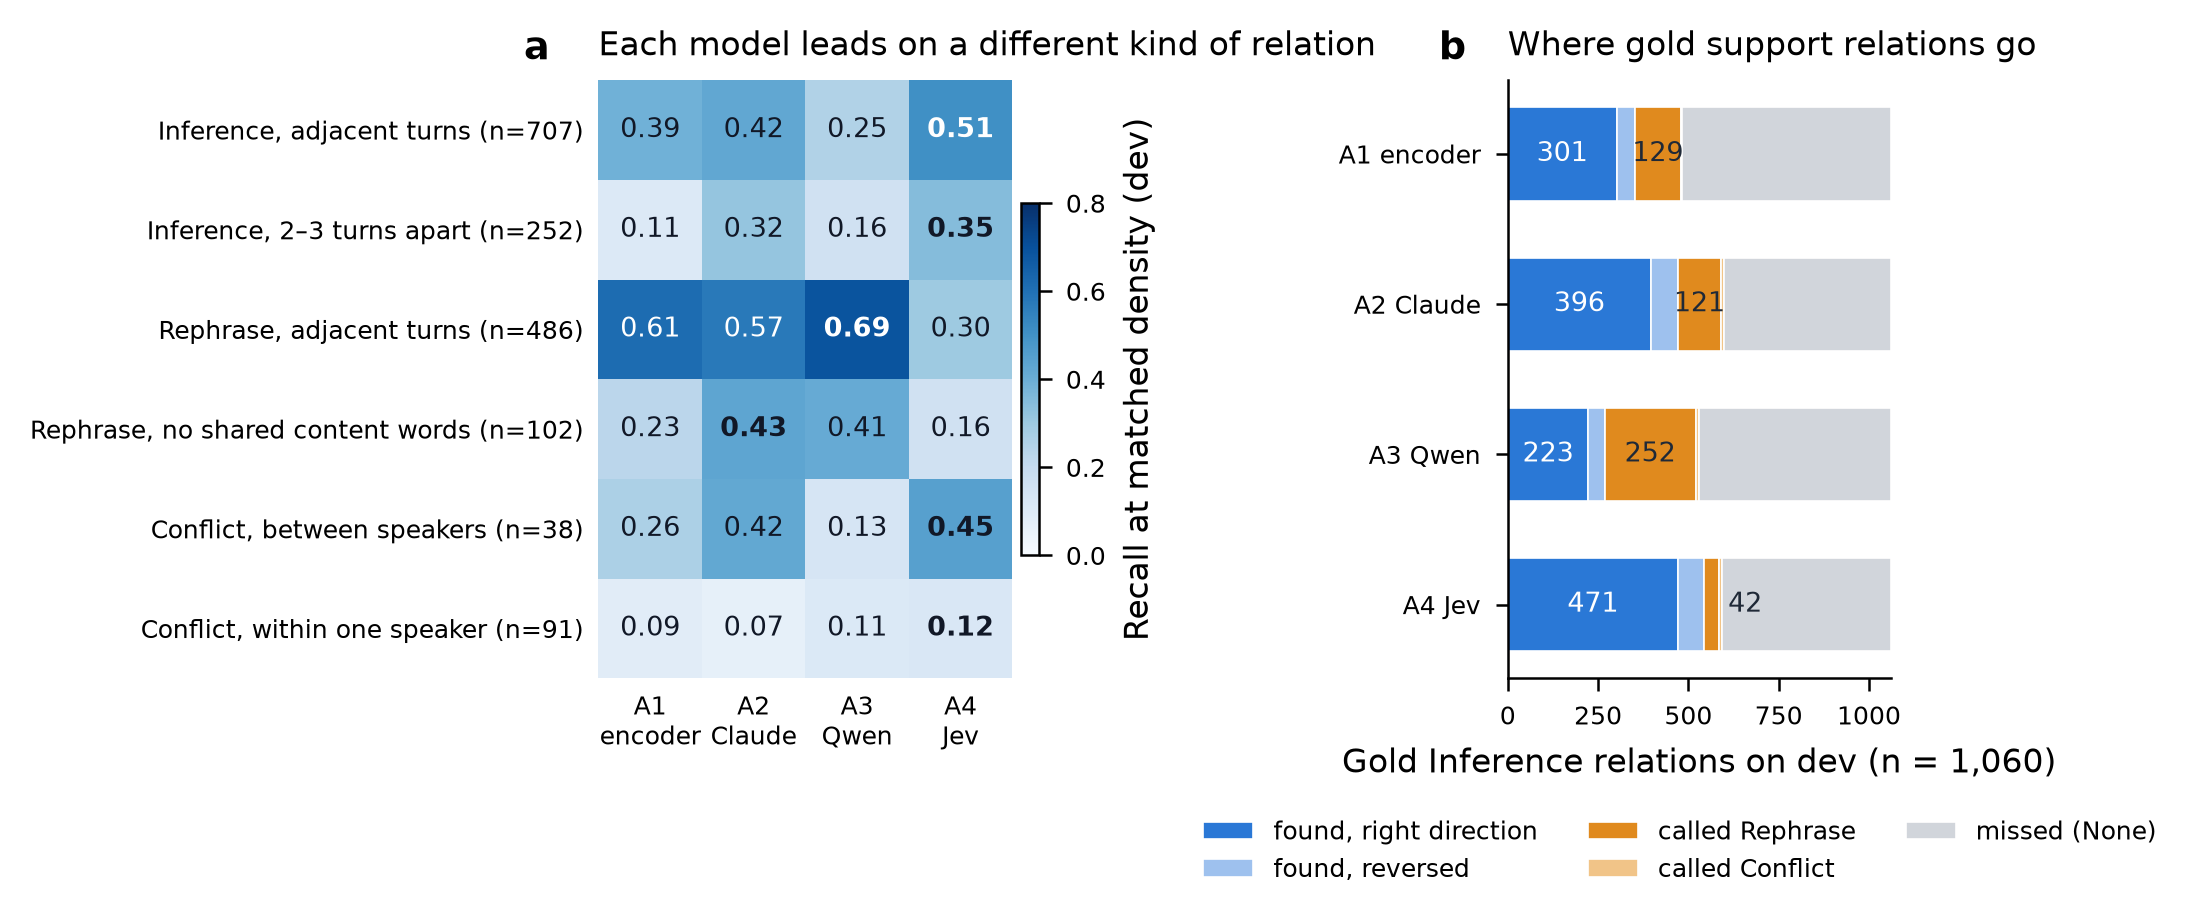
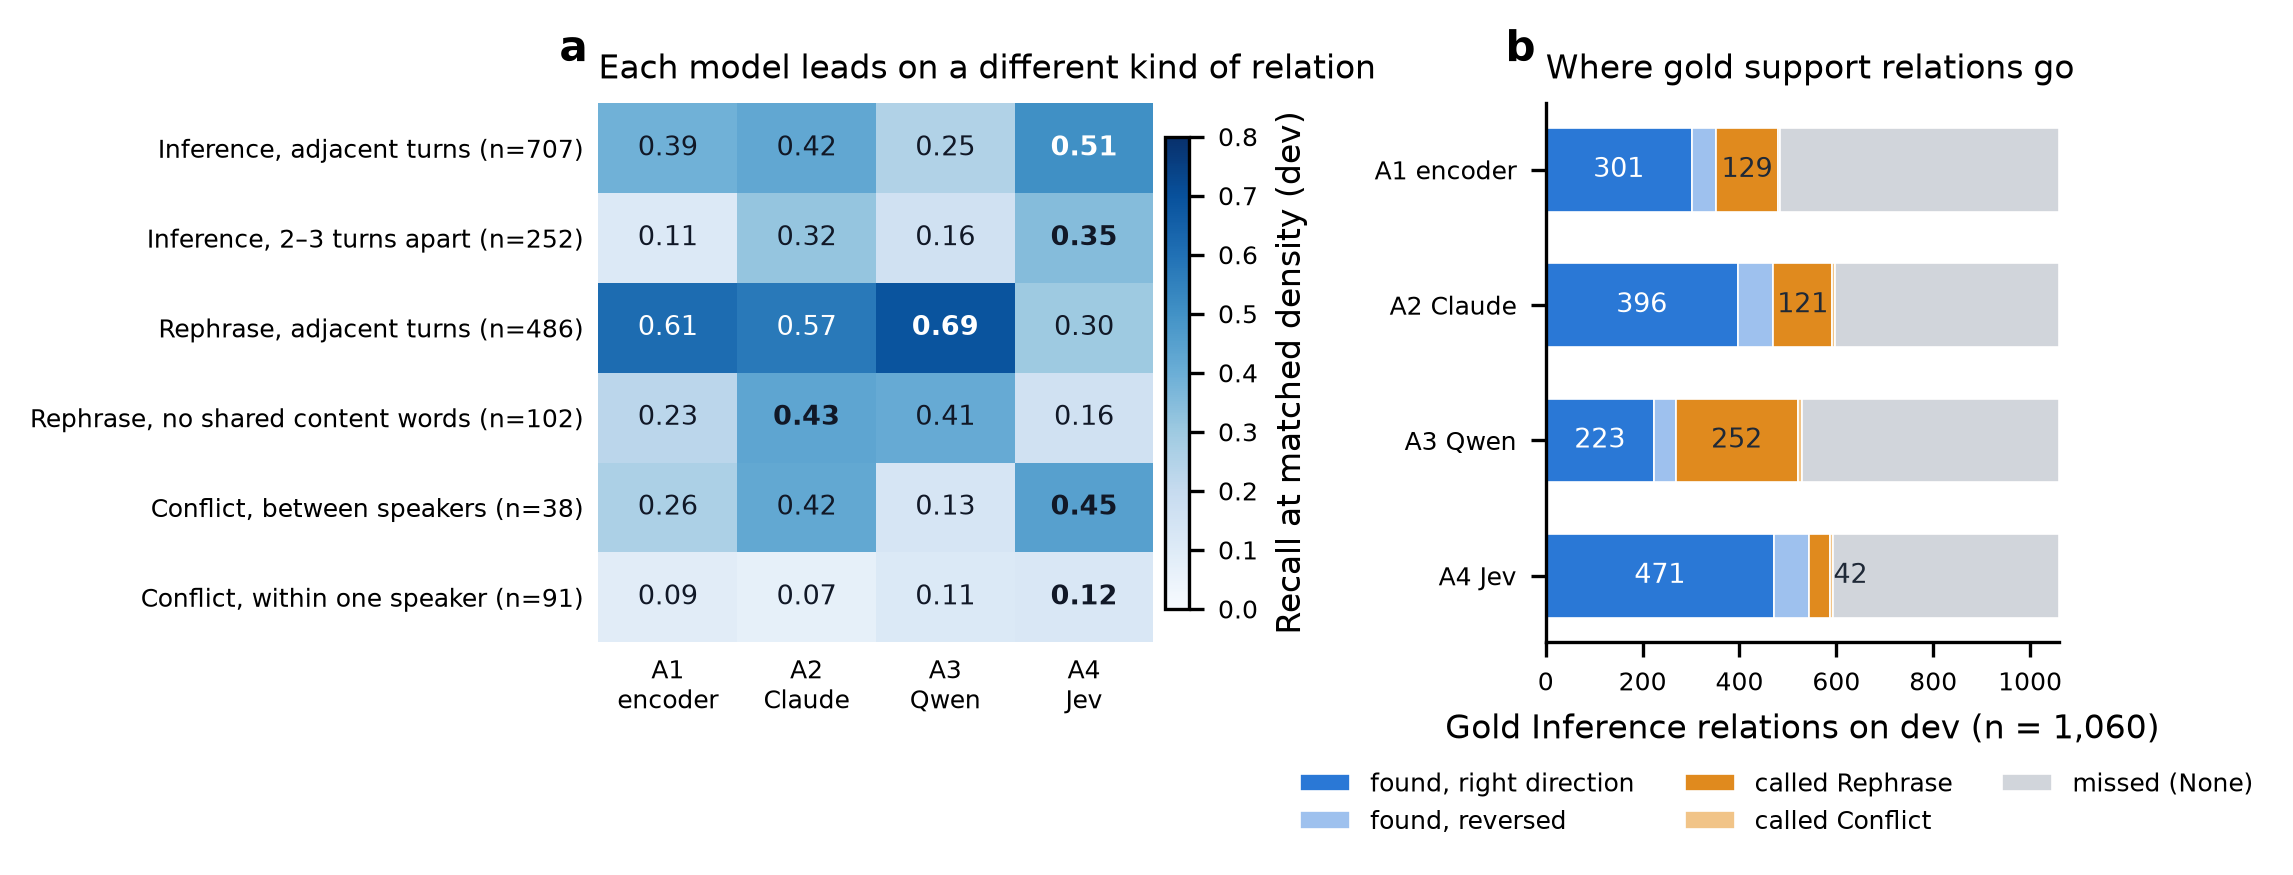
Short report: figures redrawn by a script from committed files (D087)
- reports/short_report_figures.py: numpy + matplotlib only; reads results/ and results/short_report/derived.json, plus quoted constants with sources.
- reports/figures/short-*.png regenerated by the script.
- D087 and the report header say how to reproduce.

diff --git a/reports/short_report_figures.py b/reports/short_report_figures.py
@@ -1,0 +1,271 @@
+"""Redraw the four figures of reports/06-short-report.md from committed files.
+
+    python reports/short_report_figures.py      # from the repo root; writes reports/figures/short-*.png
+
+Needs numpy and matplotlib only (matplotlib is not in the pinned ML venv; any Python with both works).
+Reads committed results under results/ and, for the bootstrap intervals and pooled counts, the output of
+reports/short_report_numbers.py (results/short_report/derived.json; run that first if it is missing).
+data/evaluation/ is not read. The few values that are not in results/ are quoted constants, each with its source.
+"""
+import json
+from pathlib import Path
+
+import matplotlib
+matplotlib.use("Agg")
+import matplotlib.pyplot as plt
+import numpy as np
+from matplotlib.patches import Patch
+
+ROOT = Path(__file__).resolve().parents[1]
+RES = ROOT / "results"
+OUT = ROOT / "reports" / "figures"
+MAPS = [f"map{i}" for i in range(1, 12)]
+
+# ---- quoted constants (not in results/) ---------------------------------------------------------------
+# 2024 shared-task results on the 11 test maps: overview paper (reference/2024.argmining-1.8.pdf), Tables 1-3.
+DFKI = {"ari": (55.33, 30.40), "ilo": (78.78, 66.10), "global": (67.05, 48.25)}
+FIELD_2024 = [("DFKI (2024 1st)", 55.33, 30.40), ("Pungene", 46.22, 20.51), ("KnowComp", 32.75, 9.06),
+              ("Pokemon", 30.64, 35.89), ("Turiya", 30.75, 6.65), ("RoBERTa baseline", 26.46, 22.80),
+              ("Predict nothing", 29.52, 0.0)]
+# Dev references (A1 report section 5, D044): no relations predicted; every candidate pair labelled right.
+DEV_MAJORITY, DEV_CEILING = 30.93, 98.64
+# Time per map, seconds (final report section 7.3; A3 is a 22-40 s range, plotted at its midpoint).
+TIME = {"A1": 0.94, "A2": 25.0, "A3": 31.0, "A4": 0.8, "A1+A2+A4": 26.7}
+A3_TIME_RANGE = (22.0, 40.0)
+
+COL = {"A1": "#6b7280", "A2": "#2a78d6", "A3": "#b45309", "A4": "#7c3aed", "A1+A2+A4": "#111827"}
+C_ILO, C_ARI = "#2a78d6", "#e08a1e"
+
+
+def load(rel):
+    with open(RES / rel, encoding="utf-8") as f:
+        return json.load(f)
+
+
+def style():
+    plt.rcParams.update({
+        "font.size": 7, "axes.titlesize": 8, "axes.labelsize": 8, "xtick.labelsize": 6, "ytick.labelsize": 6,
+        "legend.fontsize": 6.5, "axes.spines.top": False, "axes.spines.right": False, "axes.linewidth": 0.8,
+        "savefig.dpi": 300, "savefig.bbox": "tight", "font.family": "DejaVu Sans",
+    })
+
+
+def letter(ax, s):
+    ax.text(-0.02, 1.06, s, transform=ax.transAxes, fontsize=10, fontweight="bold", ha="right", va="bottom")
+
+
+def systems():
+    a3 = load("a3/test_global.json")["votes"]
+    comb = load("combination/test_global.json")["A1+A2+A4"]
+    return {"A1": load("a1/v1/test_global.json"), "A2": load("a2/test_global.json"), "A3": a3,
+            "A4": load("a4/test_global.json"), "A1+A2+A4": comb}
+
+
+def fig_gain(S):
+    names = {"A1": "A1 · encoder", "A2": "A2 · Claude", "A3": "A3 · fine-tuned Qwen", "A4": "A4 · Jev",
+             "A1+A2+A4": "A1+A2+A4 (pre-registered)"}
+    keys = list(names)[::-1]
+    y = np.arange(len(keys))
+    fig, axs = plt.subplots(1, 2, figsize=(7.2, 3.1), sharey=True)
+    for ax, (si, s) in zip(axs, enumerate(("general", "focused"))):
+        d_ilo = np.array([(S[k]["ilo"][s][2] - DFKI["ilo"][si]) / 2 for k in keys])
+        d_ari = np.array([(S[k]["ari"][s][2] - DFKI["ari"][si]) / 2 for k in keys])
+        d_glob = [S[k]["global"][s][2] - DFKI["global"][si] for k in keys]
+        ax.barh(y, d_ilo, color=C_ILO, height=0.6)
+        ax.barh(y, d_ari.clip(min=0), left=d_ilo, color=C_ARI, height=0.6)
+        ax.barh(y, d_ari.clip(max=0), color=C_ARI, alpha=0.55, height=0.6)
+        for yi, di, da, dg in zip(y, d_ilo, d_ari, d_glob):
+            ax.text(di + max(da, 0) + 0.3, yi, f"+{dg:.1f}", va="center", fontsize=6.5)
+        ax.axvline(0, color="#374151", lw=0.7)
+        ax.set_xlim(-2.6, 13.5)
+        ax.set_title(f"{s.capitalize()} F1", loc="left")
+        ax.set_xlabel("Global F1 above the 2024 winner (points)")
+    axs[0].set_yticks(y, [names[k] for k in keys])
+    fig.legend(handles=[Patch(color=C_ILO, label="from illocutions (Task B)"),
+                        Patch(color=C_ARI, label="from relations (Task A)"),
+                        Patch(color=C_ARI, alpha=0.55, label="relations below 2024 (subtracts)")],
+               frameon=False, loc="lower center", ncol=3, bbox_to_anchor=(0.55, 0.0))
+    for a, l in zip(axs, "ab"):
+        letter(a, l)
+    fig.tight_layout(rect=(0, 0.07, 1, 1))
+    fig.savefig(OUT / "short-gain-vs-2024.png")
+    plt.close(fig)
+
+
+def per_map_ari(S):
+    return {"A1": [S["A1"]["per_map_f1"][m]["ari"][0] for m in MAPS],
+            "A2": [S["A2"]["per_map_f1"][m]["ari"][0] for m in MAPS],
+            "A3": [S["A3"]["per_map_ari_f1"][m][0] for m in MAPS],
+            "A4": [S["A4"]["per_map_ari_f1"][m][0] for m in MAPS],
+            "A1+A2+A4": [S["A1+A2+A4"]["per_map_ari_f1"][m][0] for m in MAPS]}
+
+
+def fig_dev_vs_test(S, derived):
+    rob = load("a4/robust.json")
+    a3_vs_a1 = load("a3/v1/dev_report.json")["success_test_1"]["vs_A1"]["general"]
+    diffs = [("A2 Claude", "A2", rob["paired_bootstrap_general"]["A2 - A1"]),
+             ("A4 Jev", "A4", rob["run_to_run"]["pass 1"]["A4_minus_A1_general"]),
+             ("A3 Qwen", "A3", a3_vs_a1)]
+    fig, (axa, axb) = plt.subplots(1, 2, figsize=(7.2, 3.0), gridspec_kw={"width_ratios": [1, 1.25]})
+    yy = np.arange(len(diffs))[::-1]
+    for yi, (name, k, d) in zip(yy, diffs):
+        lo, hi = d["ci95"]
+        axa.plot([lo, hi], [yi, yi], color=COL[k], lw=1.6)
+        axa.plot(d["mean_difference"], yi, "o", color=COL[k], ms=5)
+        axa.text(hi + 0.3, yi, f"{d['mean_difference']:+.1f}", va="center", fontsize=6.5, color=COL[k])
+    axa.axvline(0, color="#374151", lw=0.7, ls=":")
+    axa.set_yticks(yy, [d[0] for d in diffs])
+    axa.set_xlim(-6, 8.5)
+    axa.set_ylim(-0.6, 2.6)
+    axa.set_xlabel("Dev relation F1 minus A1 encoder (points, 95% CI)")
+    axa.set_title("Dev (225 maps) separates the systems", loc="left")
+
+    pm = per_map_ari(S)
+    order = ["A1", "A2", "A3", "A4", "A1+A2+A4"]
+    labels = {"A1": "A1 encoder", "A2": "A2 Claude", "A3": "A3 Qwen", "A4": "A4 Jev", "A1+A2+A4": "A1+A2+A4"}
+    jit = np.random.default_rng(1)
+    for i, k in enumerate(order):
+        v = np.array(pm[k])
+        axb.scatter(i + jit.uniform(-0.17, 0.17, len(v)), v, s=9, color=COL[k], alpha=0.45, lw=0)
+        m, lo, hi = derived["test_ari_boot95"][k]
+        axb.plot([i, i], [lo, hi], color=COL[k], lw=1.6)
+        axb.plot([i - 0.22, i + 0.22], [m, m], color=COL[k], lw=2)
+    axb.axhline(DFKI["ari"][0], color="#374151", lw=0.9, ls="--")
+    axb.text(-0.45, 81.5, f"dashed line: 2024 winner, {DFKI['ari'][0]:.1f}", fontsize=6.5, color="#374151", va="center")
+    axb.set_xticks(range(len(order)), [labels[k] for k in order])
+    axb.set_xlim(-0.5, 4.5)
+    axb.set_ylim(15, 85)
+    axb.set_ylabel("Test relation F1 per map (general)")
+    axb.set_title("Eleven test maps cannot separate them", loc="left")
+    letter(axa, "a")
+    letter(axb, "b")
+    fig.tight_layout()
+    fig.savefig(OUT / "short-dev-vs-test.png")
+    plt.close(fig)
+
+
+def fig_strengths():
+    d4, d3 = load("a4/discussion.json"), load("a3/v1/discussion.json")
+    ra = d3["recall_at_matched_density"]
+    rows = [("Inference, adjacent turns", "Inference, 1 turn", ("distance", "1", "Inference")),
+            ("Inference, 2–3 turns apart", "Inference, 2-3 turns", ("distance", "2-3", "Inference")),
+            ("Rephrase, adjacent turns", "Rephrase, 1 turn", ("distance", "1", "Rephrase")),
+            ("Rephrase, no shared content words", "Rephrase, no shared content words", ("overlap", "0", "Rephrase")),
+            ("Conflict, between speakers", "Conflict, different speakers", ("speakers", "different speakers", "Conflict")),
+            ("Conflict, within one speaker", "Conflict, same speaker", ("speakers", "same speaker", "Conflict"))]
+    M = np.array([[d4["recall"]["A1"][k]["recall"], d4["recall"]["A2"][k]["recall"], ra[g][b][t]["A3"],
+                   d4["recall"]["A4 both"][k]["recall"]] for _, k, (g, b, t) in rows])
+    n = [d4["recall"]["A1"][k]["gold"] for _, k, _ in rows]
+    fate = {k: [o["right"], o["reversed"], o["called Rephrase"], o["called Conflict"], o["missed"]]
+            for k, o in d3["gold_inference_outcomes"].items()}
+    o = d4["what_gold_becomes"]["A4 both"]["Inference"]
+    fate["A4"] = [o.get("right", 0), o.get("Inference, reversed", 0), o.get("Rephrase", 0), o.get("Conflict", 0), o.get("None", 0)]
+    total = sum(fate["A1"])
+
+    fig, (ax1, ax2) = plt.subplots(1, 2, figsize=(7.2, 3.1), gridspec_kw={"width_ratios": [1.15, 1]})
+    im = ax1.imshow(M, cmap="Blues", vmin=0, vmax=0.8, aspect="auto")
+    ax1.set_xticks(range(4), ["A1\nencoder", "A2\nClaude", "A3\nQwen", "A4\nJev"])
+    ax1.set_yticks(range(len(rows)), [f"{r[0]} (n={k})" for r, k in zip(rows, n)])
+    for i in range(M.shape[0]):
+        best = M[i].argmax()
+        for j in range(4):
+            ax1.text(j, i, f"{M[i, j]:.2f}", ha="center", va="center", fontsize=6.5,
+                     color="white" if M[i, j] > 0.45 else "#111827", fontweight="bold" if j == best else "normal")
+    ax1.tick_params(length=0)
+    for s in ax1.spines.values():
+        s.set_visible(False)
+    ax1.set_title("Each model leads on a different kind of relation", loc="left")
+    fig.colorbar(im, ax=ax1, fraction=0.04, pad=0.02).set_label("Recall at matched density (dev)")
+
+    colors = ["#2a78d6", "#9ec1ee", "#e08a1e", "#f1c488", "#d1d5db"]
+    names = ["found, right direction", "found, reversed", "called Rephrase", "called Conflict", "missed (None)"]
+    ks = ["A1", "A2", "A3", "A4"]
+    yb = np.arange(4)[::-1]
+    left = np.zeros(4)
+    for j in range(5):
+        w = np.array([fate[k][j] for k in ks])
+        ax2.barh(yb, w, left=left, color=colors[j], height=0.62, label=names[j], edgecolor="white", lw=0.4)
+        if j in (0, 2):
+            for yi, wi, l0 in zip(yb, w, left):
+                narrow = wi < 80
+                ax2.text(l0 + (wi + 8 if narrow else wi / 2), yi, str(wi), ha="left" if narrow else "center",
+                         va="center", fontsize=6.5, color="white" if (j == 0 and not narrow) else "#1f2937")
+        left += w
+    ax2.set_yticks(yb, ["A1 encoder", "A2 Claude", "A3 Qwen", "A4 Jev"])
+    ax2.set_xlim(0, total)
+    ax2.set_xlabel(f"Gold Inference relations on dev (n = {total:,})")
+    ax2.set_title("Where gold support relations go", loc="left")
+    ax2.legend(frameon=False, fontsize=6, loc="upper center", bbox_to_anchor=(0.45, -0.2), ncol=3)
+    letter(ax1, "a")
+    letter(ax2, "b")
+    fig.tight_layout(w_pad=2.5)
+    fig.savefig(OUT / "short-model-strengths.png")
+    plt.close(fig)
+
+
+def fig_cost_and_scoring(S):
+    rob = load("a4/robust.json")["with_dev_thresholds (honest)"]
+    dev = {k: rob[k]["general"] for k in ("A1", "A2", "A3", "A4")}
+    dev["A1+A2+A4"] = load("combination/dev_report.json")["A1+A2+A4"]["honest_ari"]["general"]
+    labels = {"A1": "A1 encoder\n$0 · 94 min training", "A2": "A2 Claude\n$0.18/map (API-equivalent)",
+              "A3": "A3 Qwen\n$0 · 110 min training", "A4": "A4 Jev\n$0.003/map · no training", "A1+A2+A4": "A1+A2+A4"}
+    offsets = {"A1": (6, -24), "A2": (-6, 12), "A3": (8, -22), "A4": (6, 10), "A1+A2+A4": (6, 4)}
+
+    fig, (axc, axs) = plt.subplots(1, 2, figsize=(7.2, 3.0))
+    axc.plot(A3_TIME_RANGE, [dev["A3"]] * 2, color=COL["A3"], lw=1.2)
+    for k in labels:
+        axc.plot(TIME[k], dev[k], "o", color=COL[k], ms=5, zorder=4)
+        axc.annotate(labels[k], (TIME[k], dev[k]), xytext=offsets[k], textcoords="offset points", fontsize=6, color=COL[k])
+    for yref in (DEV_MAJORITY, DEV_CEILING):
+        axc.axhline(yref, color="#9aa5b1", lw=0.8, ls=":")
+    axc.text(0.55, DEV_MAJORITY + 1.6, f"predict no relations: {DEV_MAJORITY:.1f}", fontsize=6, color="#4b5563")
+    axc.text(0.55, DEV_CEILING - 3.6, f"every candidate pair labelled right: {DEV_CEILING:.1f}", fontsize=6,
+             color="#4b5563", va="top")
+    axc.set_xscale("log")
+    axc.set_xlim(0.5, 200)
+    axc.set_xticks([1, 10, 100], ["1 s", "10 s", "100 s"])
+    axc.set_ylim(25, 102)
+    axc.set_xlabel("Time per map (log scale)")
+    axc.set_ylabel("Dev relation F1 (general, honest)")
+    axc.set_title("All methods sit in a narrow band, far below the ceiling", loc="left")
+
+    off24 = {"Pokemon": (4, -2), "DFKI (2024 1st)": (-62, -10), "Predict nothing": (4, 1), "Turiya": (-26, -3),
+             "KnowComp": (4, -1), "RoBERTa baseline": (4, -2), "Pungene": (4, -3)}
+    for name, x, y in FIELD_2024:
+        axs.plot(x, y, "s", ms=4.5, mfc="white", mec="#6b7280", mew=1)
+        axs.annotate(name, (x, y), xytext=off24[name], textcoords="offset points", fontsize=6, color="#4b5563")
+    for k in ("A1", "A2", "A3", "A4", "A1+A2+A4"):
+        axs.plot(S[k]["ari"]["general"][2], S[k]["ari"]["focused"][2], "o", ms=4.5, color=COL[k], zorder=4)
+    c = S["A1+A2+A4"]["ari"]
+    axs.annotate("ours (A1–A4, A1+A2+A4)", (c["general"][2], c["focused"][2]), xytext=(-48, 18),
+                 textcoords="offset points", fontsize=6, color="#111827",
+                 arrowprops=dict(arrowstyle="-", lw=0.5, color="#6b7280"))
+    axs.set_xlim(20, 62)
+    axs.set_ylim(-3, 42)
+    axs.set_xlabel("Test relation F1, general (rewards abstaining)")
+    axs.set_ylabel("Test relation F1, focused (rewards guessing)")
+    axs.set_title("The two settings reward opposite strategies", loc="left")
+    letter(axc, "a")
+    letter(axs, "b")
+    fig.tight_layout(w_pad=2)
+    fig.savefig(OUT / "short-cost-and-scoring.png")
+    plt.close(fig)
+
+
+def main():
+    derived_path = RES / "short_report" / "derived.json"
+    if not derived_path.exists():
+        raise SystemExit("run `python reports/short_report_numbers.py` first")
+    derived = json.loads(derived_path.read_text(encoding="utf-8"))
+    OUT.mkdir(parents=True, exist_ok=True)
+    style()
+    S = systems()
+    fig_gain(S)
+    fig_dev_vs_test(S, derived)
+    fig_strengths()
+    fig_cost_and_scoring(S)
+    print("wrote", ", ".join(sorted(p.name for p in OUT.glob("short-*.png"))))
+
+
+if __name__ == "__main__":
+    main()

diff --git a/decisionlog.md b/decisionlog.md
@@ -1299,4 +1299,5 @@ Each phase follows the same loop: explain it, check it against `PLAN.md`, get ap
   - ILO's share of the Global margin: 0.93 general, 0.81 focused;
   - per-map test ILO: 100 on 7 maps, 98.6 on map 6, about 73 on maps 1, 2 and 9 (bimodal; not diagnosed, since that would mean reading the test gold).
 - *Not new:* every other number is quoted from the final report, the comparison and per-approach reports, or the committed result files they cite.
-- *No new runs, no scoring, no spend.* The figures were drawn in Claude Science; their plotting code is not in the repository, but every plotted value is in a committed file.
+- *Reproduce:* `python reports/short_report_numbers.py`, then `python reports/short_report_figures.py` (numpy and matplotlib only; matplotlib is not in the pinned ML venv, so any Python with both works). The figure script reads only `results/` plus a few quoted constants, each with its source in the file: the 2024 field (overview paper), the dev floor and ceiling (D044) and the time per map (final report §7.3).
+- *No new runs, no scoring, no spend.*

diff --git a/reports/06-short-report.md b/reports/06-short-report.md
@@ -1,6 +1,6 @@
 # DialAM-2024 revisited: the short report
 
-*6 October 2026 · a condensed, critical companion to the [final report](05-final-report.md). Every number comes from a committed file under `results/` or `eda/`, from the [decision log](../decisionlog.md) (D001–D087), or from the 2024 overview paper. The per-map bootstrap intervals, pooled test counts and gain split are recomputed by `python reports/short_report_numbers.py` into [`results/short_report/derived.json`](../results/short_report/derived.json).*
+*6 October 2026 · a condensed, critical companion to the [final report](05-final-report.md). Every number comes from a committed file under `results/` or `eda/`, from the [decision log](../decisionlog.md) (D001–D087), or from the 2024 overview paper. The per-map bootstrap intervals, pooled test counts and gain split are recomputed by `python reports/short_report_numbers.py` into [`results/short_report/derived.json`](../results/short_report/derived.json); the figures are redrawn from committed files by `python reports/short_report_figures.py`.*
 
 ---
 
